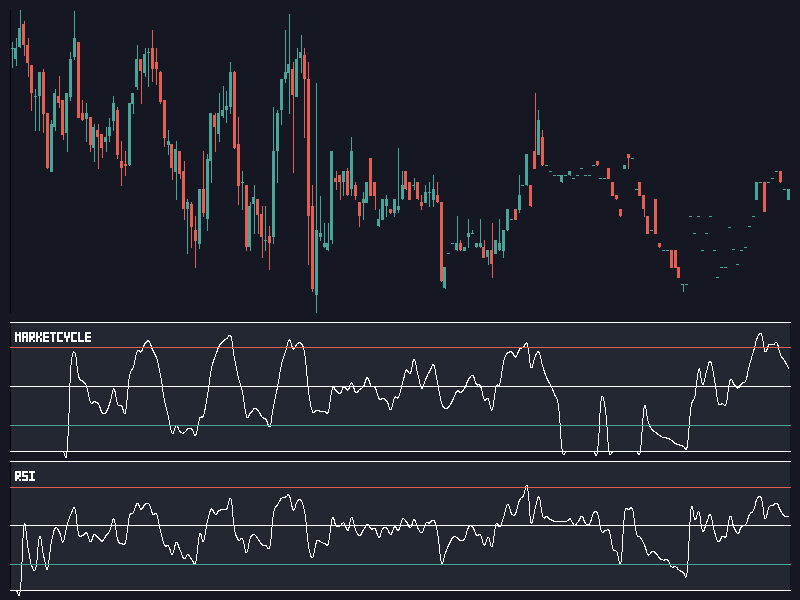
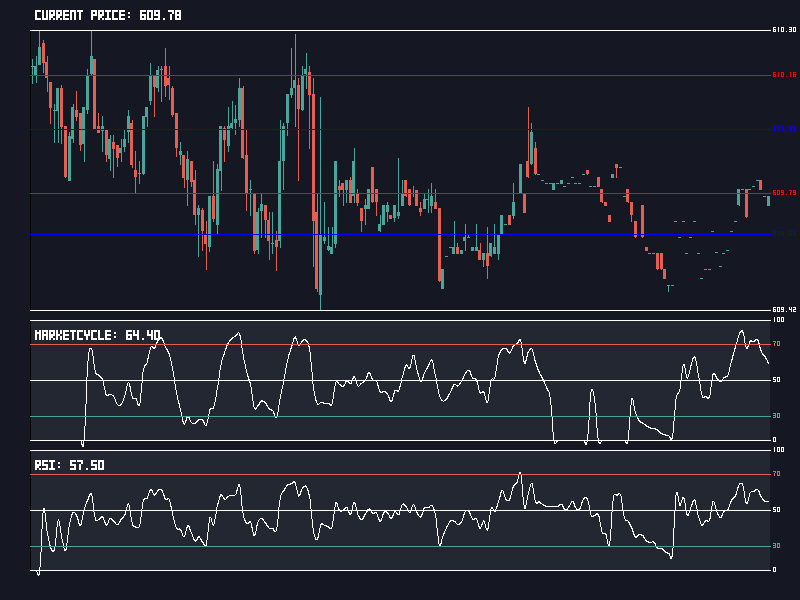
chart rendering test

diff --git a/test3.js b/test3.js
@@ -42,20 +42,82 @@ const getStockData = () => {
     return last50//.slice(last50.length-50)
 }
 
+const getMinMax = (data) => {
+    let min = Infinity;
+    let max = -Infinity;
+
+    for (const { open, high, low, close } of data) {
+        min = Math.min(min, open, high, low, close);
+        max = Math.max(max, open, high, low, close);
+    }
+
+    return { min, max };
+};
+
 const generateChart = (data, width=800, height=600) => {
-    console.log(data)
+    //console.log(data)
     const chart = new NodeChart({
         width: width,
         height: height,
         data: data,
-        padding: 10,      // 10px padding around the edge of the canvas
+        padding: 30,      // 10px padding around the edge of the canvas
         panelGap: 10,     // 10px gap between panels
         renderAxis: {
             x: false,    // Do not render the x axis
             y: true      // Render the y axis
         }
     });
-    
+
+
+    const sr = new MarketSR(data);
+
+    const supports = sr.supports()
+    const resistances = sr.resistances()
+    const minMax = getMinMax(data);
+
+
+
+    const lines = [];
+
+    lines.push({
+        id: `max`,
+        type: "horizontal-line",
+        data: {
+            value: minMax.max
+        },
+        color: { r: 255, g: 255, b: 255, a: 255 }
+    })
+    lines.push({
+        id: `min`,
+        type: "horizontal-line",
+        data: {
+            value: minMax.min
+        },
+        color: { r: 255, g: 255, b: 255, a: 255 }
+    })
+
+    supports.forEach(item => {
+        const color = { r: 0, g: 0, b: 255, a: 255 };
+        lines.push({
+            id: `support-${item.level.toFixed(2)}`,
+            type: "horizontal-line",
+            data: {
+                value: parseFloat(item.level.toFixed(2))
+            },
+            color: color
+        })
+    })
+    resistances.forEach(item => {
+        lines.push({
+            id: `resistance-${item.level.toFixed(2)}`,
+            type: "horizontal-line",
+            data: {
+                value: parseFloat(item.level.toFixed(2))
+            },
+            color: { r: 255, g: 0, b: 0, a: 255 }
+        })
+    })
+
     chart.addPanel({
         id: "stock-data",
         height: 70,
@@ -75,7 +137,8 @@ const generateChart = (data, width=800, height=600) => {
                     up: { r: 74, g: 164, b: 154, a: 255 },
                     down: { r: 226, g: 96, b: 83, a: 255 }
                 }
-            }
+            },
+            ...lines
         ]
     });
     
@@ -193,6 +256,7 @@ const generateChart = (data, width=800, height=600) => {
         ]
     });
 
+    const stockBox = chart.getBoundingBox('stock-data')
     const rsiBox = chart.getBoundingBox('RSI')
     const mcBox = chart.getBoundingBox('marketcycle')
 
@@ -205,47 +269,68 @@ const generateChart = (data, width=800, height=600) => {
 
     chart.render()
 
+    const marginX = 5;
+    const marginY = -3;
 
     // Render the panels labels
     const mcMax = chart.getCoordinates(data.length-1, "marketcycle", "100");
-    chart.canvas.write(mcMax.x+20, mcMax.y+5, "100", { r: 255, g: 255, b: 255, a: 100 })
+    chart.canvas.write(mcMax.x+marginX, mcMax.y+marginY, "100", { r: 255, g: 255, b: 255, a: 100 })
 
     const mcMid = chart.getCoordinates(data.length-1, "marketcycle", "50");
-    chart.canvas.write(mcMid.x+20, mcMid.y+5, "50", { r: 255, g: 255, b: 255, a: 100 })
+    chart.canvas.write(mcMid.x+marginX, mcMid.y+marginY, "50", { r: 255, g: 255, b: 255, a: 100 })
 
     const mcMin = chart.getCoordinates(data.length-1, "marketcycle", "0");
-    chart.canvas.write(mcMin.x+20, mcMin.y-10, "0", { r: 255, g: 255, b: 255, a: 100 })
+    chart.canvas.write(mcMin.x+marginX, mcMin.y+marginY, "0", { r: 255, g: 255, b: 255, a: 100 })
 
     const mcUp = chart.getCoordinates(data.length-1, "marketcycle", "overbought");
-    chart.canvas.write(mcUp.x+20, mcUp.y+5, "70", { r: 226, g: 96, b: 83, a: 255 })
+    chart.canvas.write(mcUp.x+marginX, mcUp.y+marginY, "70", { r: 226, g: 96, b: 83, a: 255 })
 
     const mcDn = chart.getCoordinates(data.length-1, "marketcycle", "oversold");
-    chart.canvas.write(mcDn.x+20, mcDn.y+5, "30", { r: 74, g: 164, b: 154, a: 255 })
+    chart.canvas.write(mcDn.x+marginX, mcDn.y+marginY, "30", { r: 74, g: 164, b: 154, a: 255 })
 
-    chart.canvas.write(mcBox.x+5, mcBox.y+10, "MARKETCYCLE", { r: 255, g: 255, b: 255, a: 255 }, {font: 'large'})
+    chart.canvas.write(mcBox.x+5, mcBox.y+10, "MARKETCYCLE: "+data[data.length-1].marketCycle.toFixed(2), { r: 255, g: 255, b: 255, a: 255 }, {font: 'large'})
 
 
 
     const rsiMax = chart.getCoordinates(data.length-1, "RSI", "100");
-    chart.canvas.write(rsiMax.x+20, rsiMax.y+5, "100", { r: 255, g: 255, b: 255, a: 100 })
+    chart.canvas.write(rsiMax.x+marginX, rsiMax.y+marginY, "100", { r: 255, g: 255, b: 255, a: 100 })
 
     const rsiMid = chart.getCoordinates(data.length-1, "RSI", "50");
-    chart.canvas.write(rsiMid.x+20, rsiMid.y+5, "50", { r: 255, g: 255, b: 255, a: 100 })
+    chart.canvas.write(rsiMid.x+marginX, rsiMid.y+marginY, "50", { r: 255, g: 255, b: 255, a: 100 })
 
     const rsiMin = chart.getCoordinates(data.length-1, "RSI", "0");
-    chart.canvas.write(rsiMin.x+20, rsiMin.y-10, "0", { r: 255, g: 255, b: 255, a: 100 })
+    chart.canvas.write(rsiMin.x+marginX, rsiMin.y+marginY, "0", { r: 255, g: 255, b: 255, a: 100 })
 
     const rsiUp = chart.getCoordinates(data.length-1, "RSI", "overbought");
-    chart.canvas.write(rsiUp.x+20, rsiUp.y+5, "70", { r: 226, g: 96, b: 83, a: 255 })
+    chart.canvas.write(rsiUp.x+marginX, rsiUp.y+marginY, "70", { r: 226, g: 96, b: 83, a: 255 })
 
     const rsiDn = chart.getCoordinates(data.length-1, "RSI", "oversold");
-    chart.canvas.write(rsiDn.x+20, rsiDn.y+5, "30", { r: 74, g: 164, b: 154, a: 255 })
+    chart.canvas.write(rsiDn.x+marginX, rsiDn.y+marginY, "30", { r: 74, g: 164, b: 154, a: 255 })
 
-    chart.canvas.write(rsiBox.x+5, rsiBox.y+10, "RSI", { r: 255, g: 255, b: 255, a: 255 }, {font: 'large'})
+    chart.canvas.write(rsiBox.x+5, rsiBox.y+10, "RSI: "+data[data.length-1].RSI.toFixed(2), { r: 255, g: 255, b: 255, a: 255 }, {font: 'large'})
 
-    const sr = new MarketSR(data);
-    console.log("Supports:", sr.supports());
-    console.log("Resistances:", sr.resistances());
+    // SR labels
+    supports.forEach(item => {
+        const color = { r: 0, g: 0, b: 255, a: 255 };
+        const name = `support-${item.level.toFixed(2)}`
+        const lineCoords = chart.getCoordinates(data.length-1, "stock-data", name);
+        chart.canvas.write(lineCoords.x+marginX, lineCoords.y+marginY, item.level.toFixed(2), color)
+    });
+    resistances.forEach(item => {
+        const color = { r: 255, g: 0, b: 0, a: 255 };
+        const name = `resistance-${item.level.toFixed(2)}`
+        const lineCoords = chart.getCoordinates(data.length-1, "stock-data", name);
+        chart.canvas.write(lineCoords.x+marginX, lineCoords.y+marginY, item.level.toFixed(2), color)
+    });
+
+    // Min/max
+    const maxCoords = chart.getCoordinates(data.length-1, "stock-data", "max");
+    chart.canvas.write(maxCoords.x+marginX, maxCoords.y+marginY, minMax.max.toFixed(2), { r: 255, g: 255, b: 255, a: 255 })
+    const minCoords = chart.getCoordinates(data.length-1, "stock-data", "min");
+    chart.canvas.write(minCoords.x+marginX, minCoords.y+marginY, minMax.min.toFixed(2), { r: 255, g: 255, b: 255, a: 255 })
+
+    // Price
+    chart.canvas.write(stockBox.x+marginX, stockBox.y-20, "Current price: "+data[data.length-1].close.toFixed(2), { r: 255, g: 255, b: 255, a: 255 }, {font: 'large'})
     
     chart.save("chart3.png");
 }
